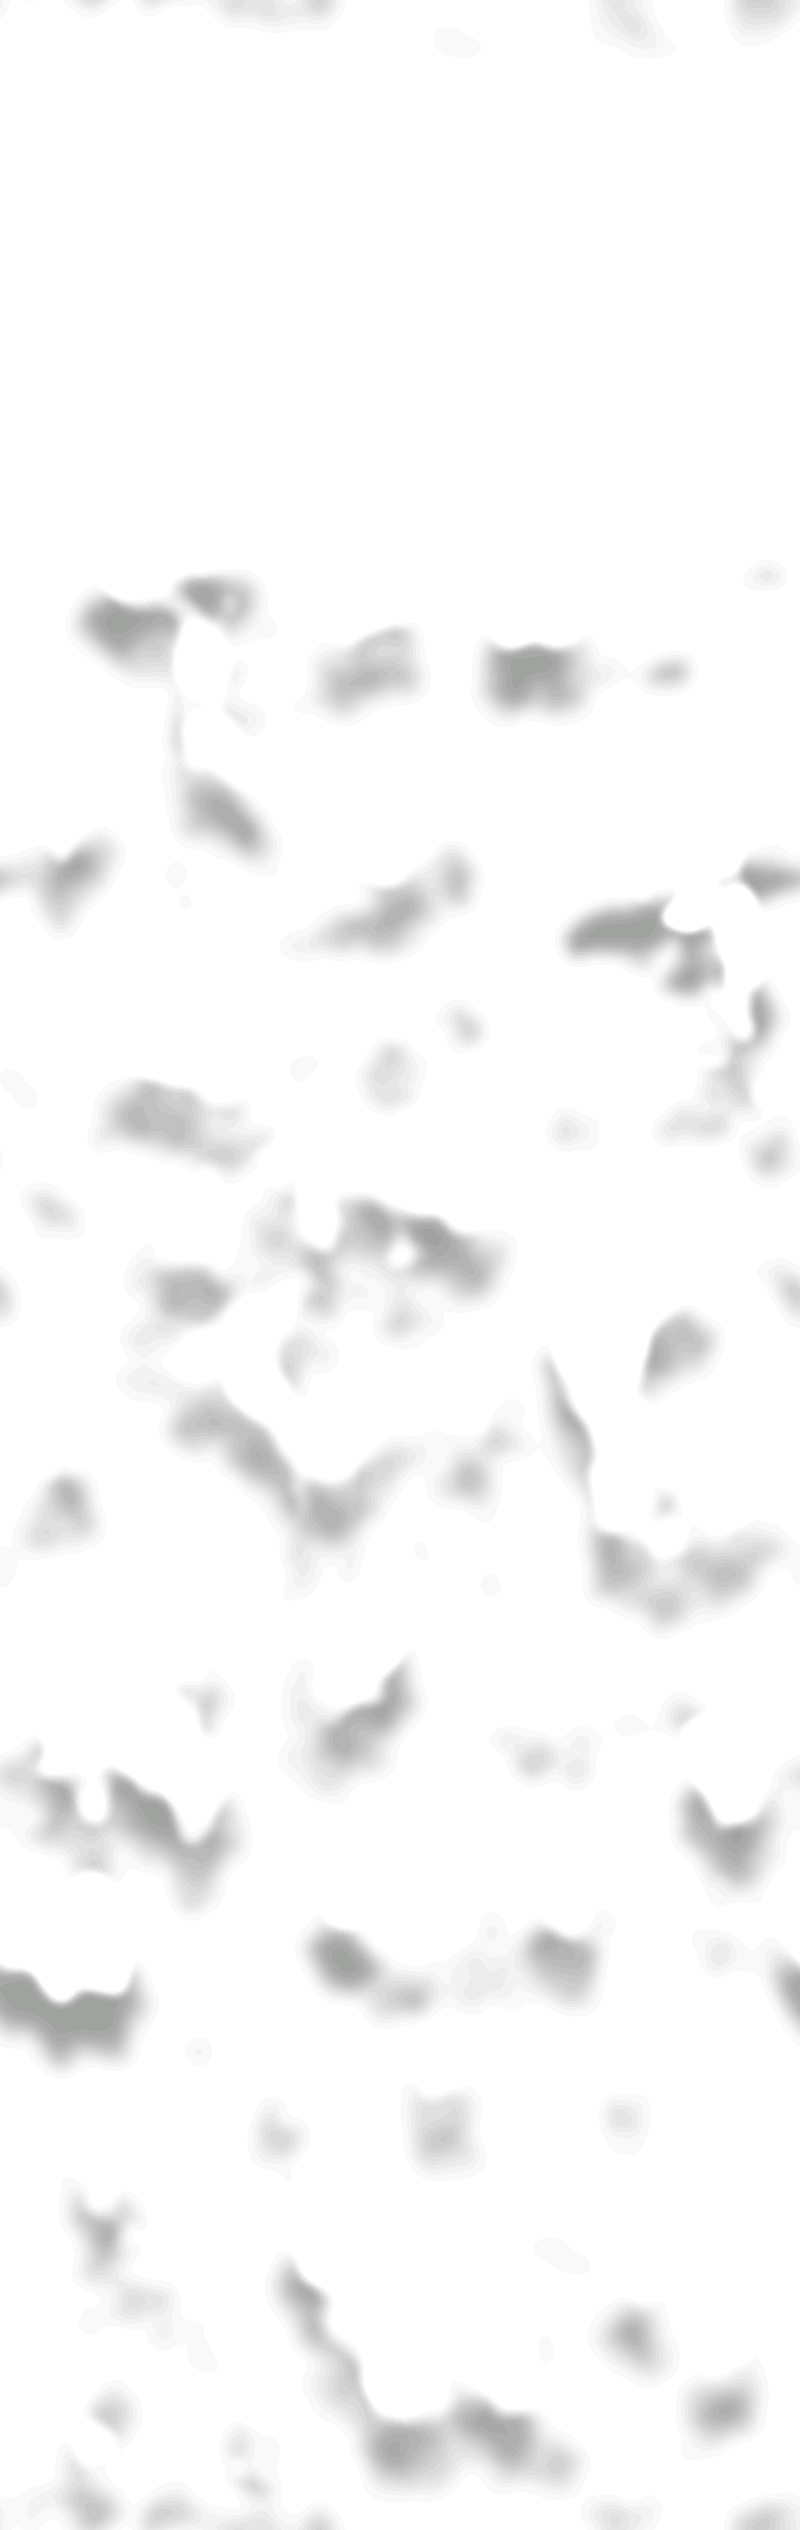
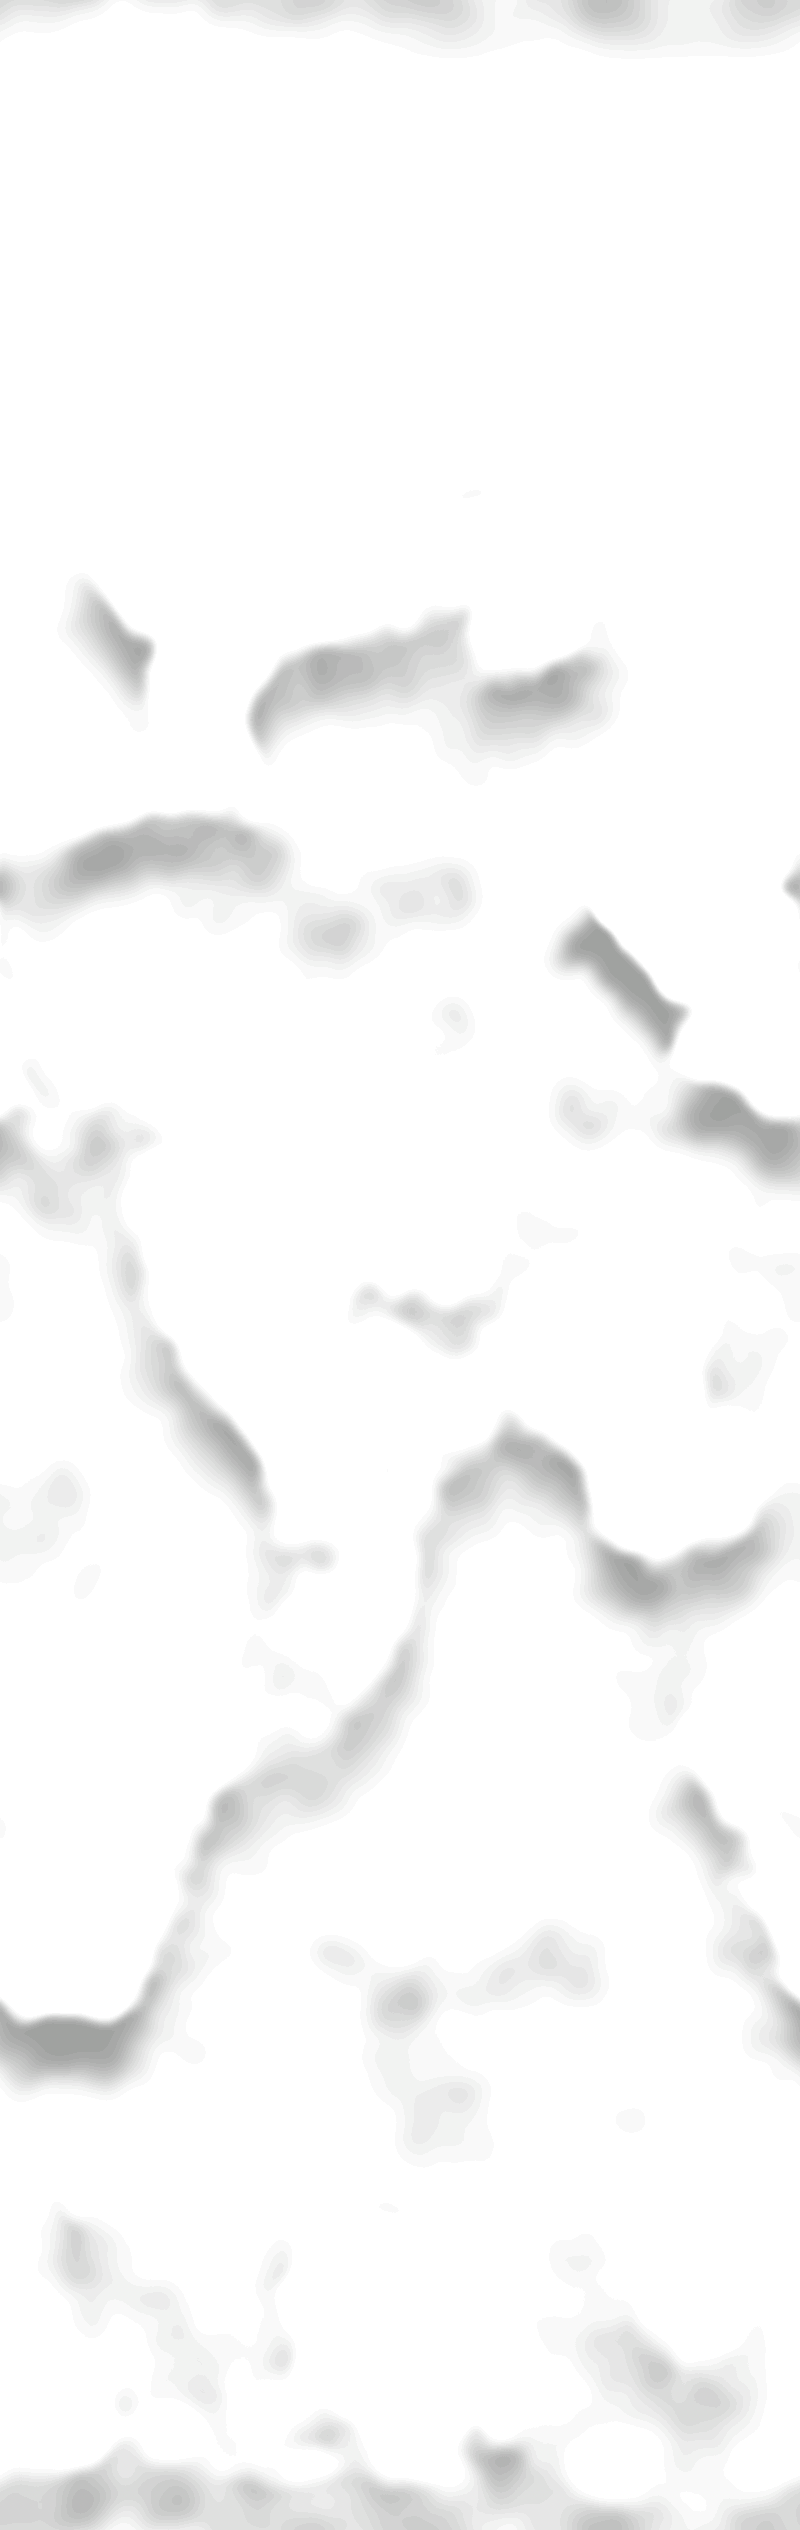
Lighter puffs; larger front wisps that pass over the texts
The puffs are lighter (bright tops, only a little darker underneath) so
they stand apart from the grey bank behind; the front wisps are about
twice the size, more of them and more solid, so they really cross the
logline and quotes (still clear of the logo). Three layers that read as
three.

diff --git a/tools/cloud_depth.py b/tools/cloud_depth.py
@@ -74,12 +74,15 @@ thr = np.quantile(n, 0.7, axis=1, keepdims=True)
 thr = np.convolve(np.pad(thr[:, 0], 60, mode="edge"), np.ones(121) / 121, mode="valid")[:, None]
 a = smooth(thr - 0.07, thr + 0.12, n) * smooth(0.0, 0.03, y) * (1 - smooth(0.95, 1.0, y))
 lit = np.clip(0.5 + 4.5 * (n - np.roll(n, 40, axis=0)) + 0.8 * (n - thr), 0, 1)[..., None]
-rgb = texture(h, w) * (0.6 + 0.8 * lit) * np.array([0.95, 0.99, 1.02])
+# lighter than the bank behind (bright tops, only a little darker underneath), so the
+# two read as separate layers
+rgb = texture(h, w) * (0.88 + 0.42 * lit) * np.array([0.95, 0.99, 1.02])
+rgb = rgb * 0.75 + np.array([226, 231, 234], np.float32) * 0.25
 Image.fromarray(np.dstack([rgb, a[..., None] * 225]).clip(0, 255).astype(np.uint8)).save(f"{out}/clouds-mid.png")
 
 # Wisps in front of the texts: one long strip (7.6 screens, 333 px a screen), drifting
-# up the page; smallish (a fifth of the screen or so, so there's sky between a wisp and
-# its shadow), soft, see-through but clearly there, light on top and greyer underneath.
+# up the page; large (a third of the screen or so), soft, partly see-through, light on
+# top and greyer underneath; they pass over the texts.
 # Where they are is planned against what passes under them (main.js places the strip):
 # - down to 1.5 screens: none, the sky above and around the logo as the page opens;
 # - 4.6 to 5.8: a group above the last quote (Variety) and its logo, for their shadows;
@@ -88,21 +91,21 @@ PER = 333  # px a screen
 h, w = int(7.6 * PER), 800
 y = np.linspace(0, 1, h)[:, None]
 at = np.arange(h)[:, None] / PER  # screens down the strip
-n = noise(h, w, [(60, 0.7), (22, 0.22), (8, 0.08)])
+n = noise(h, w, [(120, 0.7), (44, 0.22), (14, 0.08)])  # large ones
 dense = smooth(4.5, 4.6, at) * (1 - smooth(5.8, 5.9, at))
 clear = 1 - smooth(1.45, 1.55, at)
 lift = 0.3 * clear - 0.05 * dense  # higher threshold: fewer wisps; lower: more
 # Some wisps soft, almost a gradient, others with a crisper edge.
 edge = 0.03 + 0.17 * noise(h, w, [(220, 1.0)])
-a = smooth(0.71 + lift - edge, 0.71 + lift + edge, n) * smooth(0.0, 0.02, y) * (1 - smooth(0.97, 1.0, y))  # (0.71: not many)
+a = smooth(0.66 + lift - edge, 0.66 + lift + edge, n) * smooth(0.0, 0.02, y) * (1 - smooth(0.97, 1.0, y))  # (0.66: a fair few)
 # softened: a little blurred (their shadows too, below, so they still match)
 a = blur_wrapped(a, 7)
 lit = np.clip(0.5 + 6.0 * (n - np.roll(n, 14, axis=0)), 0, 1)[..., None]
 rgb = np.array([178, 186, 192], np.float32) + np.array([70, 66, 60], np.float32) * lit  # whiter than the bank behind, so they show
 # drawn well blurred: the nearest clouds, out of focus (their shadows keep the shape above)
-seen = blur_wrapped(a, 20)
+seen = blur_wrapped(a, 14)
 rgb = np.dstack([blur_wrapped(rgb[..., i] / 255, 14) for i in range(3)]) * 255
-Image.fromarray(np.dstack([rgb, seen[..., None] * 200]).clip(0, 255).astype(np.uint8)).save(f"{out}/clouds-veil.png")
+Image.fromarray(np.dstack([rgb, seen[..., None] * 228]).clip(0, 255).astype(np.uint8)).save(f"{out}/clouds-veil.png")
 # Their shadows on the letters, as from a high sun: each wisp exactly, its shape and
 # its soft or crisp edge, cast 0.2 of a screen lower, gently dark, and none where a
 # wisp is in front: a cloud, sky, then the letters darkened in its shape.
